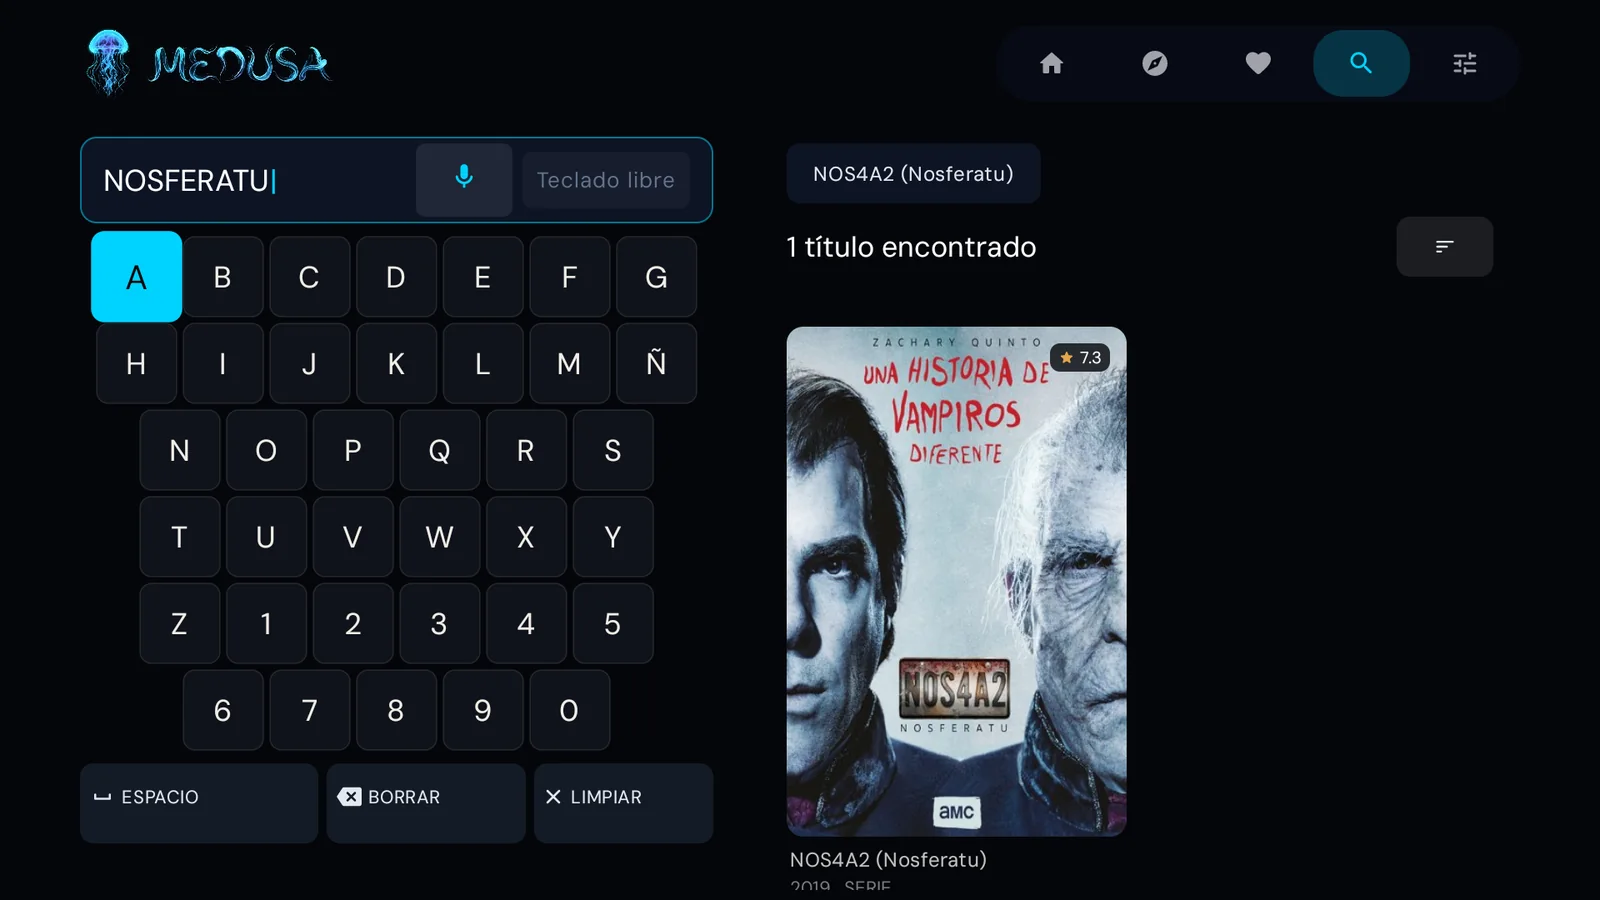
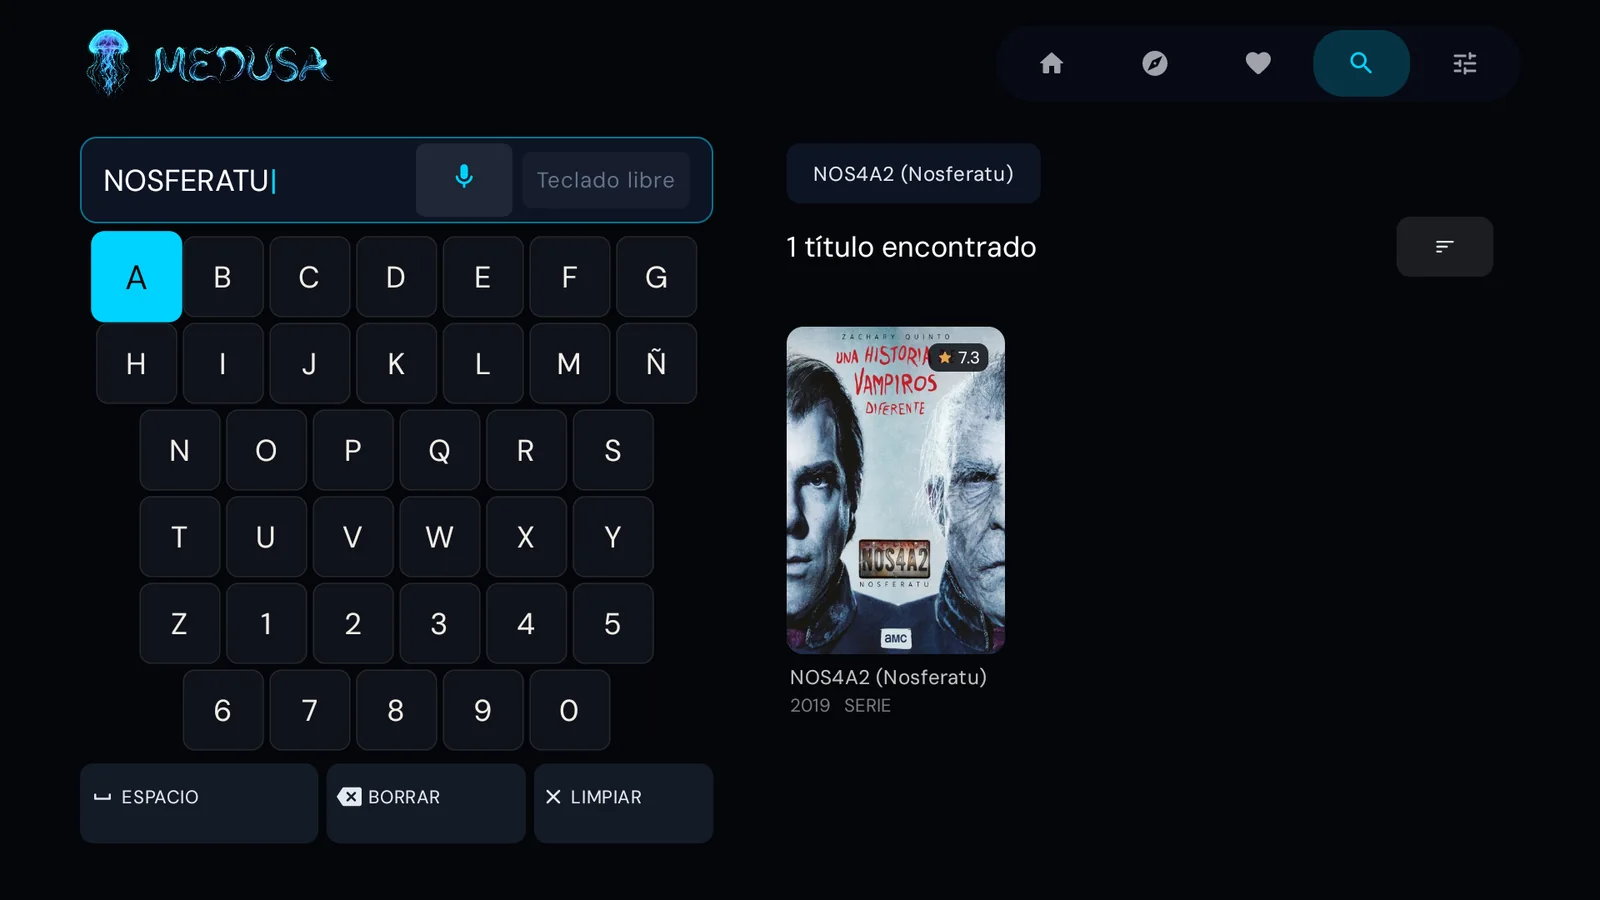
docs(estudio): actualizar capturas a la build 2.4.0 de la tele
Sustituye las capturas por la build actual instalada en el televisor (dock de iconos, DM Sans, foco de 1,5 dp). Ajusta epígrafes, metadatos sociales y deja de fijar una beta y una cifra de biblioteca concretas.

Changed region(s): [[0.4688, 0.3422, 0.7188, 0.9956]]

diff --git a/docs/index.html b/docs/index.html
@@ -29,7 +29,7 @@
     "name": "Medusa TV",
     "applicationCategory": "MultimediaApplication",
     "operatingSystem": "Android 8.0 o superior",
-    "softwareVersion": "2.4.0-beta.3",
+    "softwareVersion": "2.4.0",
     "url": "https://gitcorion.github.io/Medusa/",
     "downloadUrl": "https://github.com/GitCorion/Medusa/releases/latest/download/Medusa.apk",
     "license": "https://www.gnu.org/licenses/gpl-3.0.html",
@@ -68,7 +68,7 @@
           <p class="hero__meta">
             <span>Estudio de producto</span>
             <span>23 de noviembre de 2026</span>
-            <span>beta / 2.4.0-beta.3</span>
+            <span>main / 2.4.0</span>
           </p>
 
           <h1>
@@ -429,7 +429,7 @@
             <h2 class="chapter__title">Siete pantallas, una gramática.</h2>
             <p class="chapter__intro">
               Todas las capturas están tomadas de la app real en un televisor de 1080p, con una
-              biblioteca de prueba de 15.360 títulos. No hay maquetas: lo que ves es lo que se renderiza.
+              biblioteca de prueba real. No hay maquetas: lo que ves es lo que se renderiza.
             </p>
           </div>
         </div>
@@ -439,7 +439,7 @@
             <div class="shot__frame">
               <picture>
                 <source media="(max-width: 700px)" srcset="assets/estudio/captures/inicio-960.webp">
-                <img src="assets/estudio/captures/inicio-1600.webp" alt="Pantalla de inicio de Medusa TV con el hero de Los Anillos de Poder, el dock de iconos y la fila de géneros favoritos." width="1600" height="900" decoding="async">
+                <img src="assets/estudio/captures/inicio-1600.webp" alt="Pantalla de inicio de Medusa TV con el hero de Cómo proteger a una estrella, el dock de iconos y la fila de géneros favoritos." width="1600" height="900" decoding="async">
               </picture>
             </div>
             <figcaption>
@@ -464,10 +464,10 @@
             <figcaption>
               <span class="shot__name">Inicio<span>filas y carruseles</span></span>
               <div class="shot__body">
-                <p>Los pósters muestran el título fuera; Continuar viendo usa el card oficial con título y progreso sobre el arte. Las plataformas son placas discretas.</p>
+                <p>Los pósters muestran el título fuera; las filas de biblioteca y las recomendaciones comparten la misma gramática. La tarjeta enfocada lleva el borde cian.</p>
                 <ul class="shot__notes">
-                  <li>progreso en primary sobre 16:9</li>
-                  <li>Top 10 con ranking tipográfico</li>
+                  <li>filas de biblioteca</li>
+                  <li>título y año fuera del póster</li>
                 </ul>
               </div>
             </figcaption>
@@ -496,7 +496,7 @@
             <div class="shot__frame">
               <picture>
                 <source media="(max-width: 700px)" srcset="assets/estudio/captures/ficha-960.webp">
-                <img src="assets/estudio/captures/ficha-1600.webp" alt="Ficha de It Follows con póster a la izquierda, metadatos editoriales, botones de acción y sinopsis sin panel contenedor." width="1600" height="900" decoding="async">
+                <img src="assets/estudio/captures/ficha-1600.webp" alt="Ficha de Várzea con póster a la izquierda, metadatos editoriales, botones de acción y sinopsis sin panel contenedor." width="1600" height="900" decoding="async">
               </picture>
             </div>
             <figcaption>
@@ -553,7 +553,7 @@
             <div class="shot__frame">
               <picture>
                 <source media="(max-width: 700px)" srcset="assets/estudio/captures/ajustes-960.webp">
-                <img src="assets/estudio/captures/ajustes-1600.webp" alt="Pantalla de ajustes con barra lateral, grupos sobre superficie y el estado del servidor Jellyfin con 15.360 títulos sincronizados." width="1600" height="900" decoding="async">
+                <img src="assets/estudio/captures/ajustes-1600.webp" alt="Pantalla de ajustes con barra lateral, grupos sobre superficie y el estado del servidor Jellyfin." width="1600" height="900" decoding="async">
               </picture>
             </div>
             <figcaption>
@@ -570,7 +570,7 @@
         </div>
 
         <p class="gallery__note">
-          Capturas tomadas el 22 de noviembre de 2026 en un televisor de 1920 × 1080, con la capa visual de main. La barra superior admite solo iconos, solo texto o ambos; las capturas muestran los dos primeros modos. La biblioteca y los títulos pertenecen a sus titulares.
+          Capturas tomadas el 23 de noviembre de 2026 en un televisor de 1920 × 1080, con la capa visual de main. La barra superior admite solo iconos, solo texto o ambos; las capturas usan el modo solo iconos. La biblioteca y los títulos pertenecen a sus titulares.
         </p>
       </div>
     </section>
@@ -618,7 +618,7 @@
           </div>
 
           <dl class="specs">
-            <div><dt>Versión documentada</dt><dd>2.4.0-beta.3, versionCode 1000162</dd></div>
+            <div><dt>Versión documentada</dt><dd>2.4.0, versionCode 1000165</dd></div>
             <div><dt>Plataforma</dt><dd>Android TV, Google TV, Fire TV y tablet</dd></div>
             <div><dt>Android mínimo</dt><dd>8.0, API 26</dd></div>
             <div><dt>Lenguaje</dt><dd>Kotlin 2.0.21, Compose TV y Hilt</dd></div>
@@ -742,7 +742,7 @@
         </ol>
 
         <p class="log__after">
-          2.4.0-beta.3 publica esta capa; la estable sigue en 2.3.12. El pulido de badges, el Top 10
+          `main` (2.4.0) trae esta capa; la estable sigue en 2.3.12. El pulido de badges, el Top 10
           tipográfico y los canales estable y beta ya están en la beta.
         </p>
 
@@ -790,7 +790,7 @@
             <span>Sin analítica</span>
           </div>
           <p class="download__note">
-            La capa visual de este estudio está en la beta 2.4.0-beta.3. La estable publicada sigue siendo 2.3.12.
+            La capa visual de este estudio está en `main` (2.4.0) y en las betas. La estable publicada sigue siendo 2.3.12.
           </p>
         </div>
 

diff --git a/README.md b/README.md
@@ -21,7 +21,7 @@
 
 ![Inicio de Medusa TV en un televisor de 1080p](docs/assets/estudio/captures/inicio-1600.webp)
 
-<p align="center"><sub>Inicio en un televisor de 1920 × 1080. Las capturas reflejan la capa visual 2.4.0-beta.3; la estable publicada sigue siendo 2.3.12.</sub></p>
+<p align="center"><sub>Inicio en un televisor de 1920 × 1080. Las capturas reflejan la capa visual actual de main (2.4.0); la estable publicada sigue siendo 2.3.12.</sub></p>
 
 ## Qué es
 
@@ -128,7 +128,7 @@ Hay dos canales: **estable** (Releases `latest`) y **beta** (pre-releases con ma
   <img src="docs/assets/estudio/captures/ajustes-960.webp" width="49%" alt="Ajustes con barra lateral y estado del servidor">
 </p>
 
-<p align="center"><sub>Capturas reales de la app en un televisor de 1080p. La barra superior admite solo iconos, solo texto o ambos; las capturas muestran los dos primeros modos. <a href="https://gitcorion.github.io/Medusa/#pantallas">Ver las siete pantallas y sus decisiones de diseño</a>.</sub></p>
+<p align="center"><sub>Capturas reales de la app en un televisor de 1080p. La barra superior admite solo iconos, solo texto o ambos; las capturas usan el modo solo iconos. <a href="https://gitcorion.github.io/Medusa/#pantallas">Ver las siete pantallas y sus decisiones de diseño</a>.</sub></p>
 
 ## Arquitectura
 

diff --git a/README.en.md b/README.en.md
@@ -21,7 +21,7 @@
 
 ![Medusa TV home screen on a 1080p television](docs/assets/estudio/captures/inicio-1600.webp)
 
-<p align="center"><sub>Home on a 1920 × 1080 television. Captures show the 2.4.0-beta.3 visual layer; the published stable release is still 2.3.12.</sub></p>
+<p align="center"><sub>Home on a 1920 × 1080 television. Captures show the current main visual layer (2.4.0); the published stable release is still 2.3.12.</sub></p>
 
 ## What it is
 
@@ -128,7 +128,7 @@ There are two channels: **stable** (`latest` Releases) and **beta** (pre-release
   <img src="docs/assets/estudio/captures/ajustes-960.webp" width="49%" alt="Settings screen with sidebar and server status">
 </p>
 
-<p align="center"><sub>Real captures from the app on a 1080p television. The top bar supports icons only, text only or both; the captures show the first two modes. <a href="https://gitcorion.github.io/Medusa/#pantallas">See all seven screens and the design decisions behind them</a>.</sub></p>
+<p align="center"><sub>Real captures from the app on a 1080p television. The top bar supports icons only, text only or both; the captures use icons only. <a href="https://gitcorion.github.io/Medusa/#pantallas">See all seven screens and the design decisions behind them</a>.</sub></p>
 
 ## Architecture
 

diff --git a/docs/ARCHITECTURE.md b/docs/ARCHITECTURE.md
@@ -4,7 +4,7 @@ Este documento describe cómo está construida la app, qué piezas se comunican 
 se tomaron las decisiones que no son obvias. Está pensado para alguien que va a tocar el código
 por primera vez, no para repetir el organigrama de carpetas.
 
-**Versión documentada:** 2.4.0-beta.3 (`versionCode 1000162`); estable publicada: 2.3.12.
+**Versión documentada:** 2.4.0 de `main` (`versionCode 1000165`); estable publicada: 2.3.12.
 **Plataforma:** Android TV, Google TV, Fire TV y tablet. `minSdk 26`, `compileSdk` y `targetSdk` 36.
 
 ## 1. Vista general

diff --git a/CHANGELOG.md b/CHANGELOG.md
@@ -10,8 +10,8 @@ no tienen entrada detallada en este archivo; su histórico está en los Releases
 
 ## [Unreleased]
 
-2.4.0 en preparación. La capa visual y los cambios de esta sección ya están publicados en la beta
-**2.4.0-beta.3** (23 de noviembre de 2026); la estable sigue en 2.3.12.
+2.4.0 en preparación. La capa visual y los cambios de esta sección están en `main` y en las betas
+2.4.0-beta.x; la estable sigue en 2.3.12.
 
 ### Añadido
 
